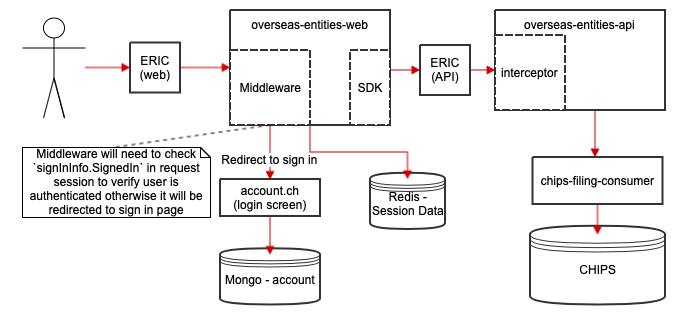
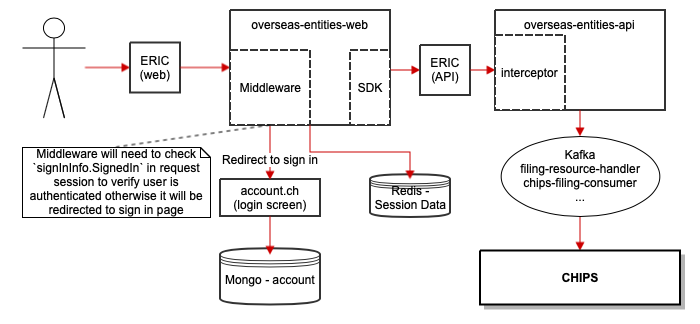
Add more info and update diagram

diff --git a/README.md b/README.md
@@ -6,6 +6,7 @@ Web front-end for the **register an overseas entity and tell us about its benefi
 ## Overseas entities architecture
 
 ![Overseas entities architecture](./docs/Overseas%20entities%20architecture.png)
+Simplified view of the architecture and does not show all services, components and infrastructure
 </br>
 
 ## Frontend Technologies and Utils
@@ -16,6 +17,7 @@ Web front-end for the **register an overseas entity and tell us about its benefi
 - [NunJucks](https://mozilla.github.io/nunjucks)
 - [GOV.UK Design System](https://design-system.service.gov.uk/)
 - [Jest](https://jestjs.io)
+- [SuperTest](https://www.npmjs.com/package/supertest)
 - [Sonarqube](https://www.sonarqube.org)
 - [Docker](https://www.docker.com/)
 - [Tilt](https://tilt.dev/)
@@ -40,8 +42,8 @@ Environment variables used to configure this service in docker are located in th
 
 ### Requirements
 
-1. node v12.22.12 (Soon it will be v16)
-2. npm 6.14.16  (Soon it will be 8)
+1. node v12.22.12
+2. npm 6.14.16
 3. Docker
 
 ### Build and Test changes
